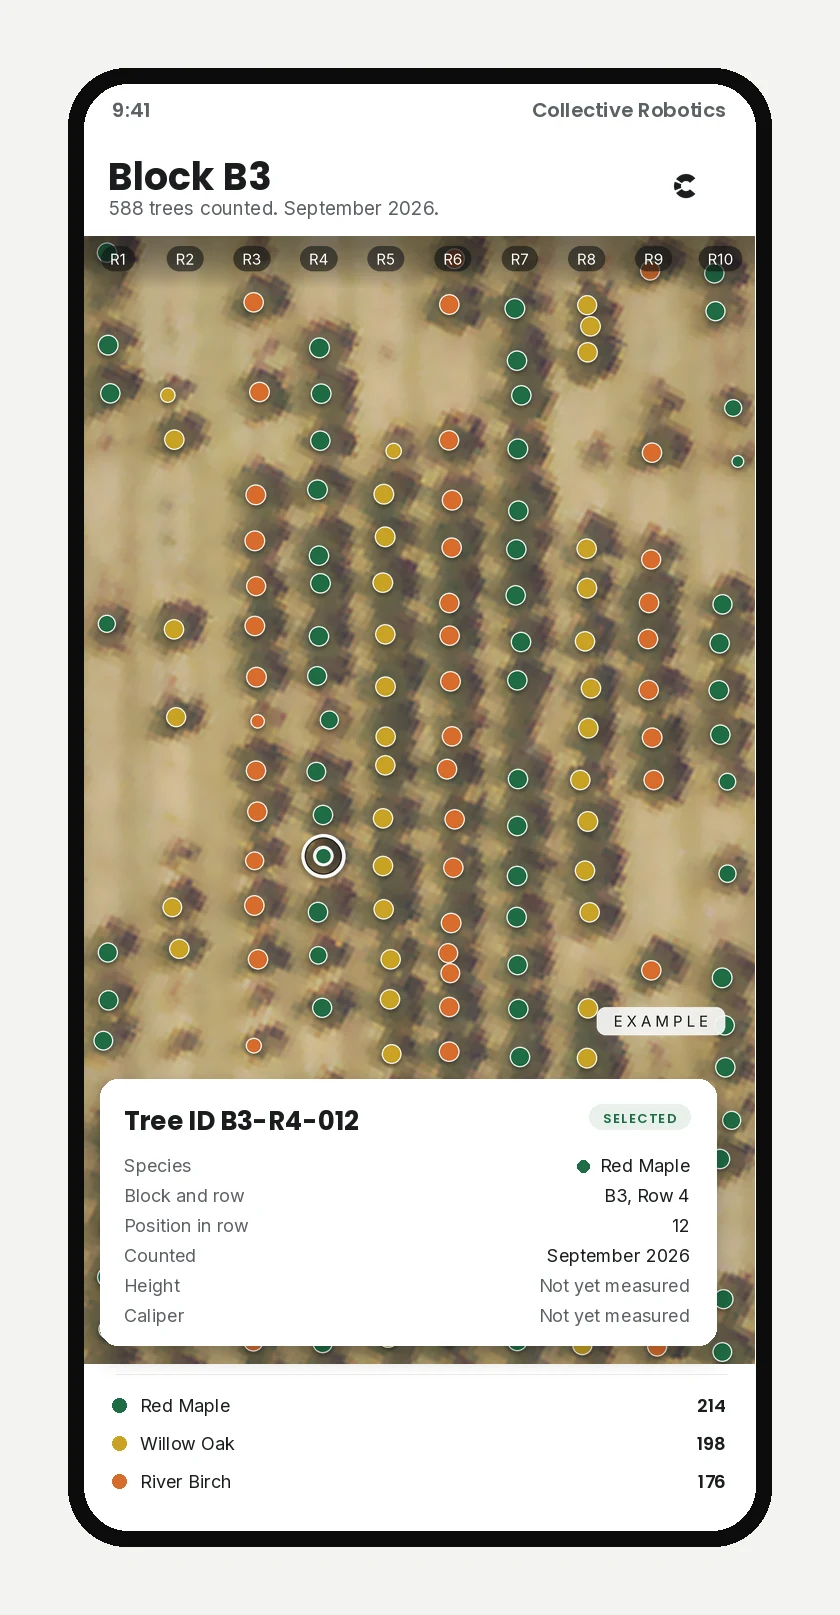
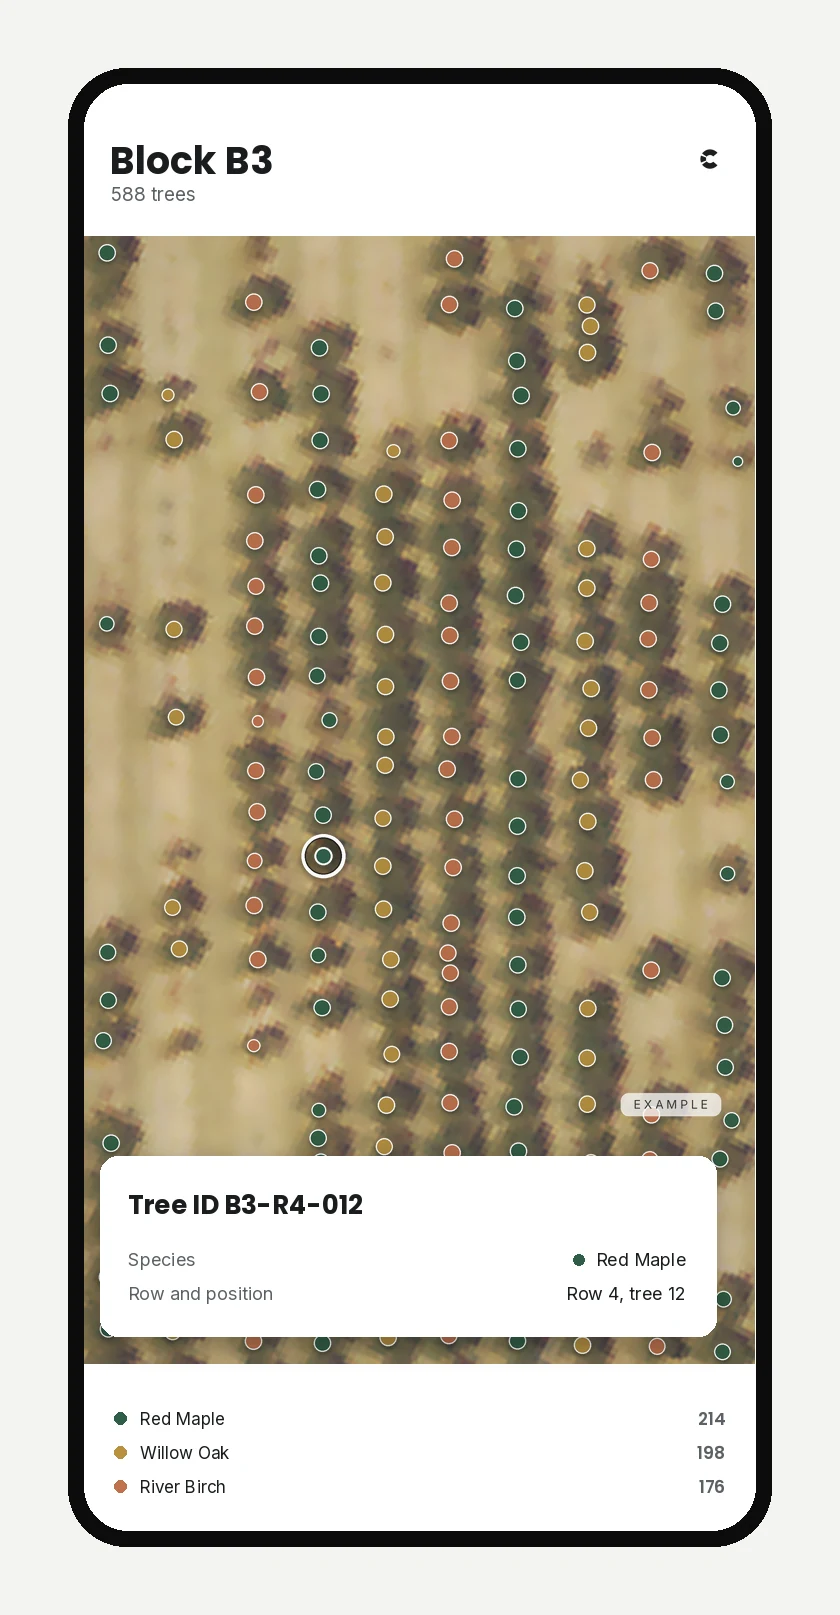
Strip the map mock back: less on it, more room around it
Lucas wants restraint. Out: the R1 to R10 row label strip, the fake
status bar, the wordmark in the phone header, the SELECTED chip, and the
Counted, Height and Caliper lines. The header is now the block name and
one quiet line, "588 trees", with the solid C small in the top right. The
card carries three lines, the tree ID, the species, and "Row 4, tree 12".
The legend is the three species and their counts, smaller, no rule above.

Dots are about fifteen percent smaller and ninety percent opaque so the
imagery reads through them, in a calmer palette: one deep green, one warm
ochre, one muted terracotta, all lower saturation than before. The
Example stamp is smaller and lighter. The NAIP attribution stays under the
image on the page, never on the image.

Same tile, same detection, same honest numbers. 97 KB. Bumped to ?v=3.

Claude-Session: https://claude.ai/code/session_01FtKBLz3V3ZCgNa9wiGSzrA

diff --git a/index.html b/index.html
@@ -93,7 +93,7 @@
 
 
     <figure class="shot phone-shot" style="margin-top:44px">
-      <img src="img/map-example.webp?v=2" width="840" height="1615" alt="Example of the map on a phone. A block of trees seen from above with a colored dot on every tree and a card showing one tree record." loading="lazy">
+      <img src="img/map-example.webp?v=3" width="840" height="1615" alt="Example of the map on a phone. A block of trees seen from above with a colored dot on every tree and a card showing one tree record." loading="lazy">
       <figcaption><b>Example</b>Example of a tree record. Every tree on the map gets an ID that stays with it.<br><span class="attrib">Aerial imagery: USDA NAIP (public domain)</span></figcaption>
     </figure>
   </div>

diff --git a/README.md b/README.md
@@ -88,11 +88,16 @@ Crowns are detected from the pixels, not drawn on a grid:
    bigger dot.
 
 That gives 173 trees, ten rows, between ten and twenty three trees a row. Over that base sit the
-species colored circles, each with a white rim and a soft shadow, the row labels in pills over a
-gradient scrim, the selected tree ring, the record card, and the legend. All of that is drawn at
-three times size and scaled down, so the thin rims stay clean. Species are assigned by row. Every
-number in it is an example and the image is stamped "Example". No Google, Bing, Apple, or Mapbox
-imagery is used anywhere.
+species colored circles, each slightly translucent so the imagery shows through, with a white rim
+and a soft shadow, the selected tree ring, the record card, and the legend. All of that is drawn at
+three times size and scaled down, so the thin rims stay clean. Species are assigned by row, in a
+deliberately calm palette of one deep green, one warm ochre, and one muted terracotta.
+
+The mock is kept deliberately spare. There is no status bar, no wordmark, and no row label strip.
+The header is the block name and one quiet line, the mark sits small in the top right, and the
+record card carries three lines only: the tree ID, the species, and the row and position. Every
+number in it is an example and the image is stamped "Example". The NAIP attribution lives under the
+image on the page, never on the image. No Google, Bing, Apple, or Mapbox imagery is used anywhere.
 
 To rebuild it, run `python3 scripts/make_map_example.py` from the olaf-assistant repo root. It
 caches the NAIP tile under `/tmp/naip-cache` and also writes `map-debug.png` there, a version of
